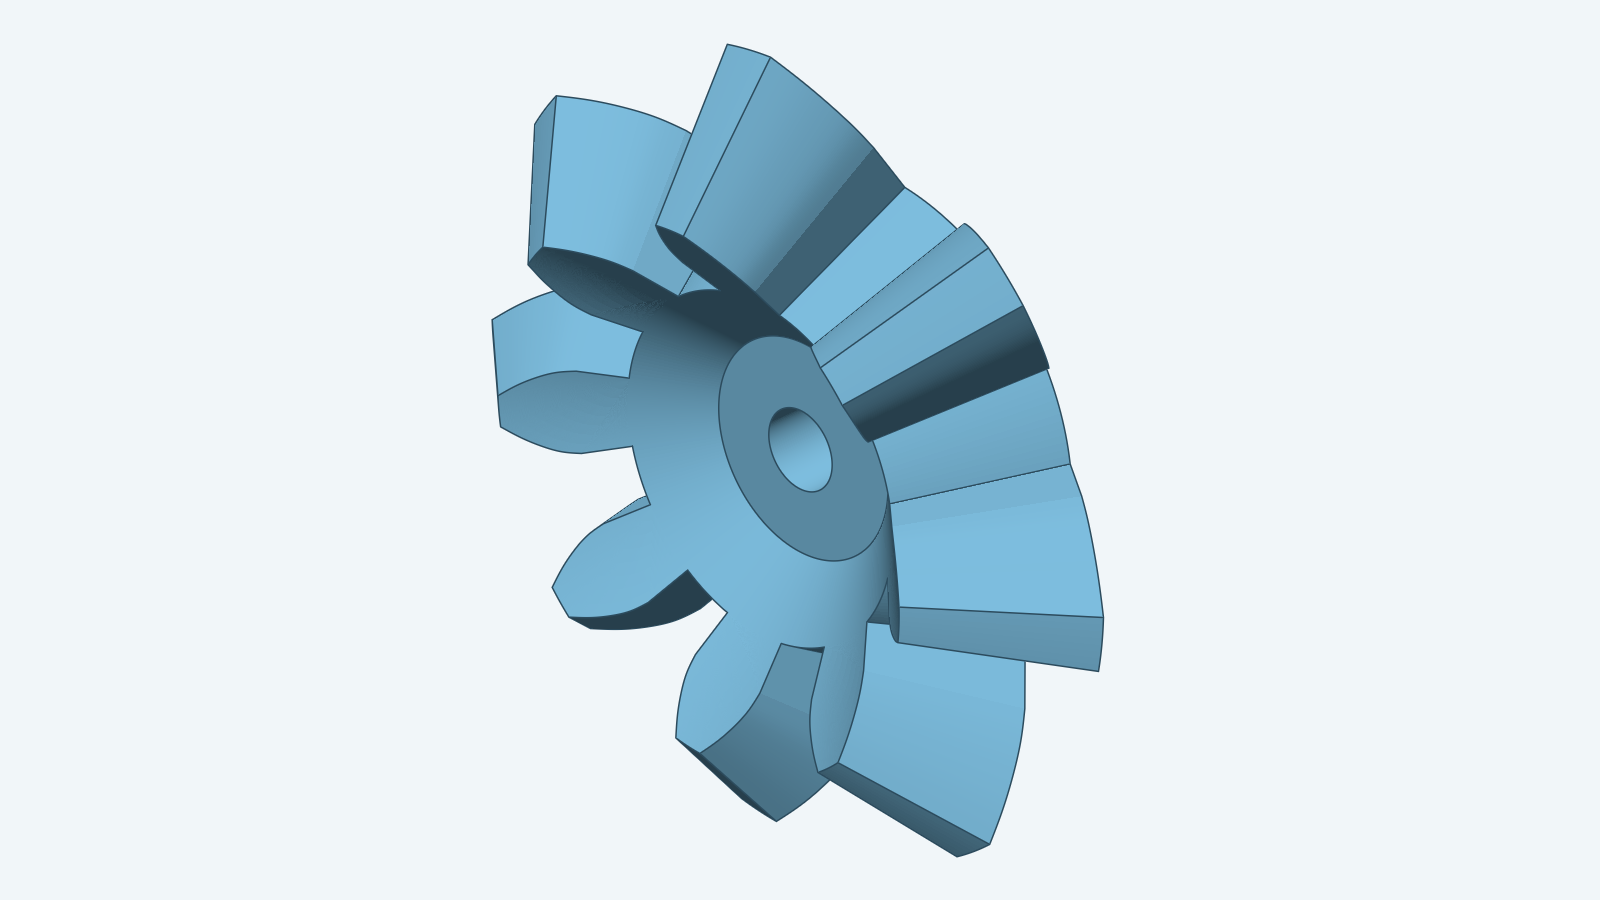
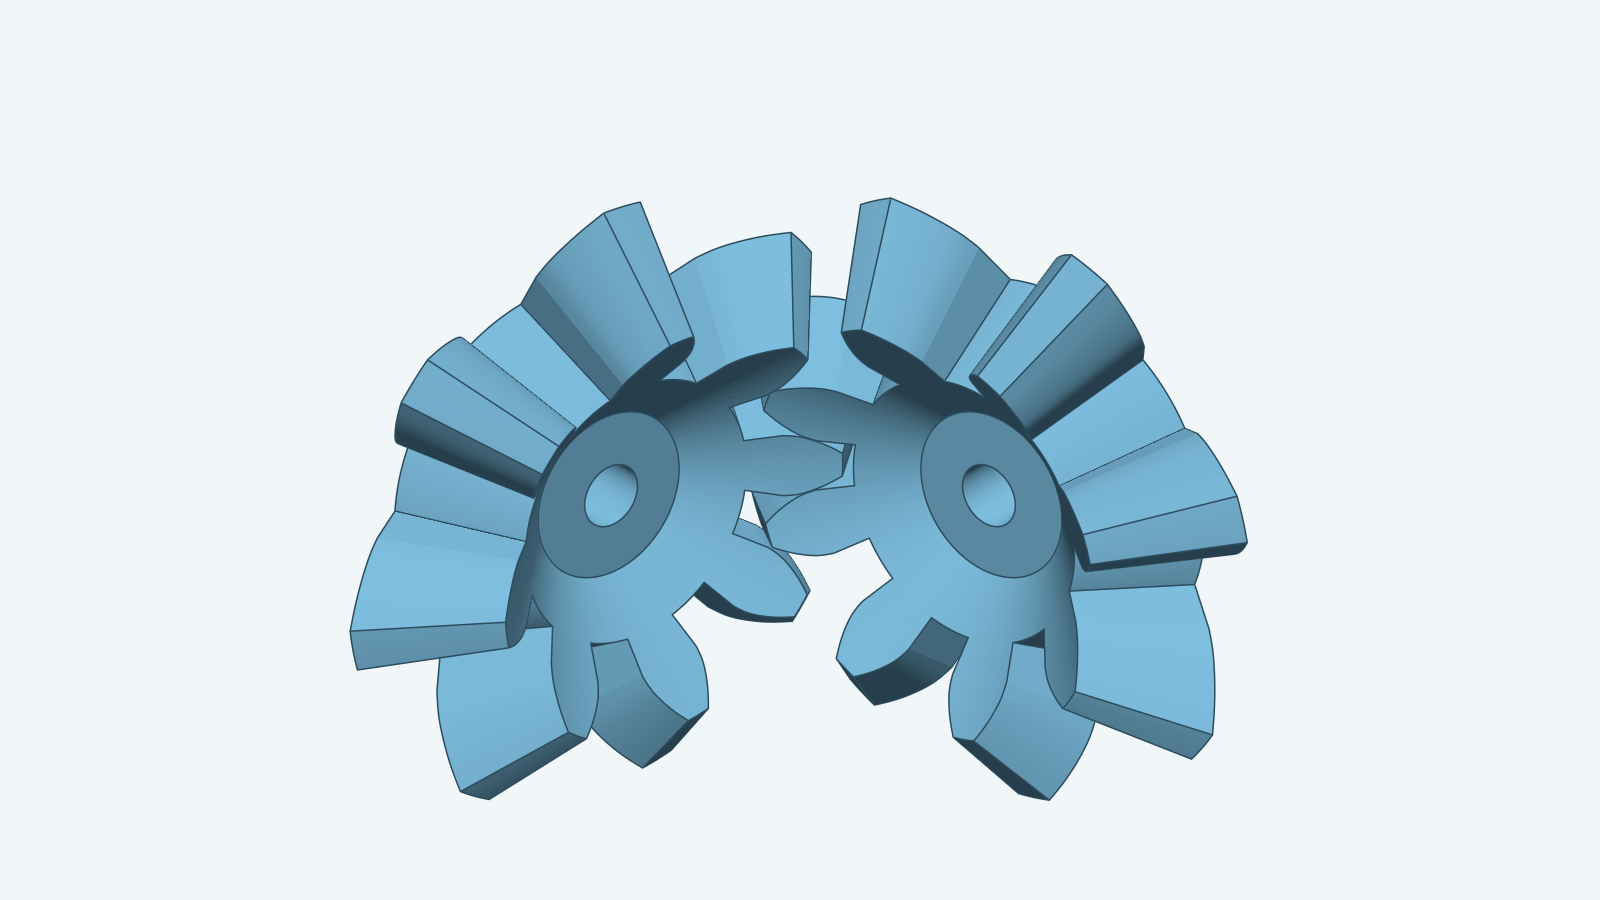
render source-derived bevel gear pair

Changed region(s): [[0.2188, 0.0311, 0.7812, 0.9644]]

diff --git a/tools/render/bevelgear.go b/tools/render/bevelgear.go
@@ -16,22 +16,23 @@ func bevelGearHero(ctx context.Context) (solidlens.Scene, error) {
 	params.MateTeeth = 8
 	params.Samples = 5
 	params.BoreDiameter = 1
-	body, err := bevelgear.Build(ctx, decad.New(), params)
+	pair, err := bevelgear.BuildPair(ctx, decad.New(), params)
 	if err != nil {
-		return solidlens.Scene{}, fmt.Errorf("build bevel gear: %w", err)
+		return solidlens.Scene{}, fmt.Errorf("build bevel gear pair: %w", err)
 	}
-	mesh, err := body.Tessellate(ctx, units.Millimeters(0.1), decad.WithVerification(decad.VerifyAll))
-	if err != nil {
-		return solidlens.Scene{}, fmt.Errorf("tessellate bevel gear: %w", err)
-	}
-	return solidlens.Scene{
-		Camera: solidlens.Camera{
-			Position: solidlens.Vec{X: -9, Y: -13, Z: 10},
-			Target:   solidlens.Vec{X: 4},
-			Up:       solidlens.Vec{Z: 1},
-			FOV:      27,
-		},
-		Models: []solidlens.Model{{
+	models := make([]solidlens.Model, 0, 2)
+	for _, member := range []struct {
+		name string
+		body *decad.Body
+	}{
+		{name: "pinion", body: pair.Pinion},
+		{name: "driving", body: pair.Driving},
+	} {
+		mesh, err := member.body.Tessellate(ctx, units.Millimeters(0.1), decad.WithVerification(decad.VerifyAll))
+		if err != nil {
+			return solidlens.Scene{}, fmt.Errorf("tessellate %s gear: %w", member.name, err)
+		}
+		models = append(models, solidlens.Model{
 			Mesh:     mesh,
 			Material: solidlens.Matte(solidlens.RGB(0.17, 0.42, 0.6)),
 			Edges: solidlens.Edges{
@@ -39,7 +40,16 @@ func bevelGearHero(ctx context.Context) (solidlens.Scene, error) {
 				Color:   solidlens.RGB(0.025, 0.07, 0.11),
 				Width:   1.5,
 			},
-		}},
+		})
+	}
+	return solidlens.Scene{
+		Camera: solidlens.Camera{
+			Position: solidlens.Vec{X: -11, Y: -11, Z: 11},
+			Target:   solidlens.Vec{X: 3, Y: 3},
+			Up:       solidlens.Vec{Z: 1},
+			FOV:      35,
+		},
+		Models: models,
 		DirectionalLights: []solidlens.DirectionalLight{
 			{Direction: solidlens.Vec{X: 0.5, Y: 0.4, Z: -1}, Color: solidlens.RGB(1, 1, 1), Intensity: 1.1},
 			{Direction: solidlens.Vec{X: -0.8, Y: -0.2, Z: -0.4}, Color: solidlens.RGB(0.2, 0.5, 1), Intensity: 0.6},

diff --git a/models/bevelgear/pair.go b/models/bevelgear/pair.go
@@ -1,0 +1,59 @@
+package bevelgear
+
+import (
+	"context"
+	"fmt"
+	"math"
+
+	"github.com/lestrrat-3d/decad"
+	"github.com/lestrrat-3d/r3"
+	"github.com/lestrrat-3d/units"
+)
+
+// GearPair holds the driving member and pinion around their common pitch apex.
+type GearPair struct {
+	Driving *decad.Body
+	Pinion  *decad.Body
+}
+
+// BuildPair builds the verified straight 8/8 pair in source operation order.
+func BuildPair(ctx context.Context, doc *decad.Document, p Params) (GearPair, error) {
+	if ctx == nil || doc == nil {
+		return GearPair{}, fmt.Errorf("context and document must not be nil")
+	}
+	pinionParams := p
+	pinionParams.Teeth, pinionParams.MateTeeth = p.MateTeeth, p.Teeth
+	pinionParams.ToeRadius, pinionParams.MateToeRadius = p.MateToeRadius, p.ToeRadius
+	pinionParams.BaseHeight, pinionParams.MateBaseHeight = p.MateBaseHeight, p.BaseHeight
+
+	// Build accepts only the equal 8/8 case today. Check both members before
+	// adding the pinion so an unsupported pair leaves the document empty.
+	if p.Teeth != 8 || p.MateTeeth != 8 {
+		return GearPair{}, fmt.Errorf("BuildPair currently supports the verified 8/8 straight case")
+	}
+	pinion, err := Build(ctx, doc, pinionParams)
+	if err != nil {
+		return GearPair{}, fmt.Errorf("build pinion: %w", err)
+	}
+	pinionTurn, err := r3.Rotation(r3.NewVec(0, 0, 1), units.Radians(p.ShaftAngle))
+	if err != nil {
+		return GearPair{}, fmt.Errorf("rotate pinion shaft: %w", err)
+	}
+	pinion, err = pinion.Placed(ctx, pinionTurn)
+	if err != nil {
+		return GearPair{}, fmt.Errorf("place pinion: %w", err)
+	}
+	driving, err := Build(ctx, doc, p)
+	if err != nil {
+		return GearPair{}, fmt.Errorf("build driving gear: %w", err)
+	}
+	drivingTurn, err := r3.Rotation(r3.NewVec(1, 0, 0), units.Radians(math.Pi/float64(p.Teeth)))
+	if err != nil {
+		return GearPair{}, fmt.Errorf("rotate driving gear by half a tooth pitch: %w", err)
+	}
+	driving, err = driving.Placed(ctx, drivingTurn)
+	if err != nil {
+		return GearPair{}, fmt.Errorf("place driving gear: %w", err)
+	}
+	return GearPair{Driving: driving, Pinion: pinion}, nil
+}

diff --git a/models/bevelgear/bore_test.go b/models/bevelgear/bore_test.go
@@ -76,21 +76,40 @@ func TestReferenceBlankRejectsOversizedBore(t *testing.T) {
 	require.Empty(t, doc.Bodies())
 }
 
-func TestJoinedEightToothThroughBore(t *testing.T) {
+func TestJoinedEightToothPairThroughBore(t *testing.T) {
 	p := bevelgear.DefaultParams()
 	p.Teeth, p.MateTeeth, p.Samples = 8, 8, 5
 	p.BoreDiameter = 1
 	doc := decad.New()
-	body, err := bevelgear.Build(t.Context(), doc, p)
+	pair, err := bevelgear.BuildPair(t.Context(), doc, p)
 	require.NoError(t, err)
-	require.True(t, body.IsSolid())
-	require.Len(t, doc.Bodies(), 1)
-	mesh, err := body.Tessellate(t.Context(), units.Millimeters(0.1),
-		decad.WithVerification(decad.VerifyAll))
-	require.NoError(t, err)
-	require.True(t, mesh.BoundaryVerified())
-	require.True(t, mesh.VolumeVerified())
-	require.Equal(t, 0, meshEuler(mesh), "the joined gear must have one through-hole")
+	require.Len(t, doc.Bodies(), 2)
+	require.Same(t, pair.Pinion, doc.Bodies()[0], "the source builds the pinion first")
+	require.Same(t, pair.Driving, doc.Bodies()[1])
+	for _, tc := range []struct {
+		name string
+		body *decad.Body
+	}{
+		{name: "pinion", body: pair.Pinion},
+		{name: "driving", body: pair.Driving},
+	} {
+		t.Run(tc.name, func(t *testing.T) {
+			require.True(t, tc.body.IsSolid())
+			mesh, err := tc.body.Tessellate(t.Context(), units.Millimeters(0.1),
+				decad.WithVerification(decad.VerifyAll))
+			require.NoError(t, err)
+			require.True(t, mesh.BoundaryVerified())
+			require.True(t, mesh.VolumeVerified())
+			require.Equal(t, 0, meshEuler(mesh), "each member must have one through-hole")
+		})
+	}
+}
+
+func TestBuildPairRejectsUnsupportedCaseBeforeAddingBodies(t *testing.T) {
+	doc := decad.New()
+	_, err := bevelgear.BuildPair(t.Context(), doc, bevelgear.DefaultParams())
+	require.ErrorContains(t, err, "verified 8/8")
+	require.Empty(t, doc.Bodies())
 }
 
 func TestBuildRejectsOversizedBoreBeforeAddingBodies(t *testing.T) {

diff --git a/models/bevelgear/README.md b/models/bevelgear/README.md
@@ -1,27 +1,35 @@
 # Bevel gear construction in progress
 
-The image renders the verified straight 8/8 construction: one revolved blank,
-an apex-to-tooth loft, conical toe and heel cuts, eight patterned teeth
-joined into one solid, and a 1 mm through-bore cut after the join. It is an
-interim visual check. The construction rules come from
+The image renders the verified straight 8/8 pair. Each member uses one
+revolved blank, an apex-to-tooth loft, conical toe and heel cuts, eight
+patterned teeth joined into one solid, and a 1 mm through-bore cut after
+the join. The pinion and driving member share a pitch apex and follow the
+source's meshing rotation. It is an interim visual check. The rules come from
 `fusion360-gear-generator/spec/bevelgear/instructions.md`; its default pair
 has 31 teeth per member and spiral teeth, which this image does not yet show.
 
-![Bored straight eight-tooth bevel gear construction check](images/hero.png)
+![Bored straight eight-tooth bevel gear pair construction check](images/hero.png)
 
 `Build(ctx, doc, Params)` currently constructs that straight member in
 millimeters for Module 1, 8/8 teeth, a 90° shaft angle, and the tested profile
 sampling. It supports no bore or a bounded positive through-bore; the 1 mm
-case passes the full geometry check. It rejects other full-gear cases until
-their complete construction is verified. The [instructions](instructions.md)
-define its parameters and invalid cases; the [steps](steps.md) name the
+case passes the full geometry check. `BuildPair` builds and places both
+members for this verified case. Both functions reject other full-gear cases
+until their construction is verified. The [instructions](instructions.md)
+define their parameters and invalid cases; the [steps](steps.md) name the
 Sketch and Decad operations.
 
-Run `go test ./models/bevelgear -run 'TestRealEightToothFullPatternJoin|TestJoinedEightToothThroughBore'`
-to check the real bodies. The tests check one solid, a closed outer shell
-before the bore, a through-hole after it, and `Tessellate(VerifyAll)`. The
-[renderer](../../tools/render/README.md) builds the bored body for the hero
-image and checks the PNG in its integration test.
+Run the real-body checks separately:
+
+```sh
+go test ./models/bevelgear -run '^TestRealEightToothFullPatternJoin$'
+go test ./models/bevelgear -run '^TestJoinedEightToothPairThroughBore$'
+```
+
+The tests check a closed outer shell before the bore, two placed solids with
+through-holes afterward, and `VerifyAll` for each member. The
+[renderer](../../tools/render/README.md) builds that pair for the hero image
+and checks the PNG in its integration test.
 
 `BuildVirtualToothProfile` also draws one back-cone tooth for the planned
 apex loft. Its Sketch tests cover fractional virtual tooth counts for equal
@@ -51,7 +59,7 @@ trimmed teeth, copied around the shaft in 45° steps, join the blank into one
 closed solid and pass `VerifyAll`. A 1 mm through-bore then cuts that joined
 body, and its mesh has Euler characteristic zero.
 
-The current `Build` still needs the spiral tooth construction, broader
-parameter cases, and both members in one meshing assembly. The
+The current `BuildPair` still needs the spiral tooth construction and broader
+parameter cases. The
 Decad/Sketch handoff is in
 `../decad/.tmp/bevelgear-gallery-handoff.md` from the repository root.

diff --git a/models/bevelgear/instructions.md b/models/bevelgear/instructions.md
@@ -6,8 +6,9 @@
 geometry, operation order, and defaults. Images in that repository are visual
 checks. The current gallery `Build` uses the reference's revolved blank,
 point-to-tooth loft, conical trims, full pattern, and a conditional
-post-join bore for one straight 8/8 member. The source builds a pair,
-enables the bore by default and resolves a zero bore diameter automatically,
+post-join bore for each member of a straight 8/8 pair. `BuildPair` places
+the pinion first and then rotates the driving member by half a tooth pitch.
+The source enables the bore by default and resolves a zero diameter automatically,
 and defaults the mean spiral angle to 35°. The current gallery parameter
 defaults below describe its test path, not changes to those source rules.
 
@@ -16,7 +17,9 @@ defaults below describe its test path, not changes to those source rules.
 `Build(ctx, doc, Params)` builds one member of a meshing bevel pair. The caller
 supplies its tooth count and the mate's tooth count; both members use the same
 module and shaft angle. Lengths are millimeters and angles are radians. A
-caller can place the returned body in an assembly after construction.
+`BuildPair` constructs and places both members for the verified straight 8/8
+case. Its pinion is built first, and both members share the world origin as
+their pitch apex.
 
 | Input | Default | Rule |
 | --- | ---: | --- |
@@ -41,9 +44,11 @@ caller can place the returned body in an assembly after construction.
 The first real `Build` case is an eight-tooth member of an equal pair at
 Module 1 and a 90° shaft angle, with straight teeth, five flank samples,
 and no optional offsets. Both an unbored body and a body with a 1 mm
-post-join bore pass geometry checks. Other full-gear cases return an error
-until their construction passes those checks. The individual blank, tooth,
-cone, and bore helpers have separate tested parameter cases.
+post-join bore pass geometry checks. `BuildPair` places two bored members
+with perpendicular shafts and the source's driving half-tooth-pitch phase.
+Other full-gear cases return an error until their construction passes those
+checks. The individual blank, tooth, cone, and bore helpers have separate
+tested parameter cases.
 
 ## Derived geometry
 
@@ -78,8 +83,9 @@ lofts one fitted back-cone tooth from the common apex, cuts that tooth at
 the toe and heel cones, places eight rotated copies around the shaft, and
 joins each copy to the blank. Decad uses sequential binary `Union` calls
 for the source's Combine-Join operation. If requested, `Build` cuts a
-bounded through-bore from that joined body. Meshing rotation awaits the
-paired assembly.
+bounded through-bore from that joined body. `BuildPair` rotates the pinion
+about world Z by the shaft angle and the driving member about its shaft by
+`π / Teeth`. The default spiral pair remains unimplemented.
 
 For the reference's back-cone construction, one tooth is drawn on a plane
 through the back-cone line. Its virtual pitch radius is `r / cos(γ)` and its

diff --git a/models/bevelgear/steps.md b/models/bevelgear/steps.md
@@ -3,7 +3,8 @@
 These steps implement [instructions.md](instructions.md). The canonical
 operation order comes from `fusion360-gear-generator/spec/bevelgear/instructions.md`,
 under "Create the Gear Bodies". Lengths are millimeters. `Build(ctx, doc,
-Params)` currently returns one straight 8/8 member with an optional bore.
+Params)` returns one straight 8/8 member with an optional bore. `BuildPair`
+returns both members placed around their common apex.
 
 1. Validate both tooth counts, the shaft angle, module, face width, and
    optional inputs before adding any body. The current full build accepts
@@ -31,9 +32,9 @@ Params)` currently returns one straight 8/8 member with an optional bore.
 7. When requested, cut the bounded through-bore **after** the tooth pattern
    and Combine-Join. `BuildBoredBlank` separately checks the blank-only
    operation. The final joined body with a 1 mm bore passes `VerifyAll` and
-   has one through-hole. Render that body for the interim hero image.
-8. Build the meshing pinion and driving member around one common apex,
-   apply the source's driving half-tooth-pitch rotation, and add the spiral
-   tooth branch with its changing sections and opposite hands. Verify each
-   new parameter case against the real bodies before enabling it in
-   `Build`.
+   has one through-hole. Use this build for both members of the interim pair.
+8. Build the pinion first. Rotate it about world Z by the shaft angle, then
+   build the driving member and rotate it by half a tooth pitch about its
+   own shaft. Check both bored bodies with `VerifyAll` in the shared
+   document. The spiral branch still needs changing tooth sections and
+   opposite hands; verify those real bodies before enabling it in `BuildPair`.

diff --git a/tools/render/README.md b/tools/render/README.md
@@ -18,10 +18,10 @@ Run `go -C tools/render test ./...` to build the actual spur gear and check that
 the output PNG contains it. Animation output can use the same model scene
 builders when an animation preset is added.
 
-The `bevelgear/hero` preset currently renders the source-derived straight
-eight-tooth construction check, including the post-join 1 mm bore. It does
-not yet show the reference's default 31/31 spiral pair. Regenerate that image
-from the repository root with:
+The `bevelgear/hero` preset currently renders a source-derived straight
+eight-tooth pair, with a post-join 1 mm bore in each member. It does not yet
+show the reference's default 31/31 spiral pair. Regenerate that image from
+the repository root with:
 
 ```sh
 go -C tools/render run . -model bevelgear -shot hero -out ../../models/bevelgear/images/hero.png
